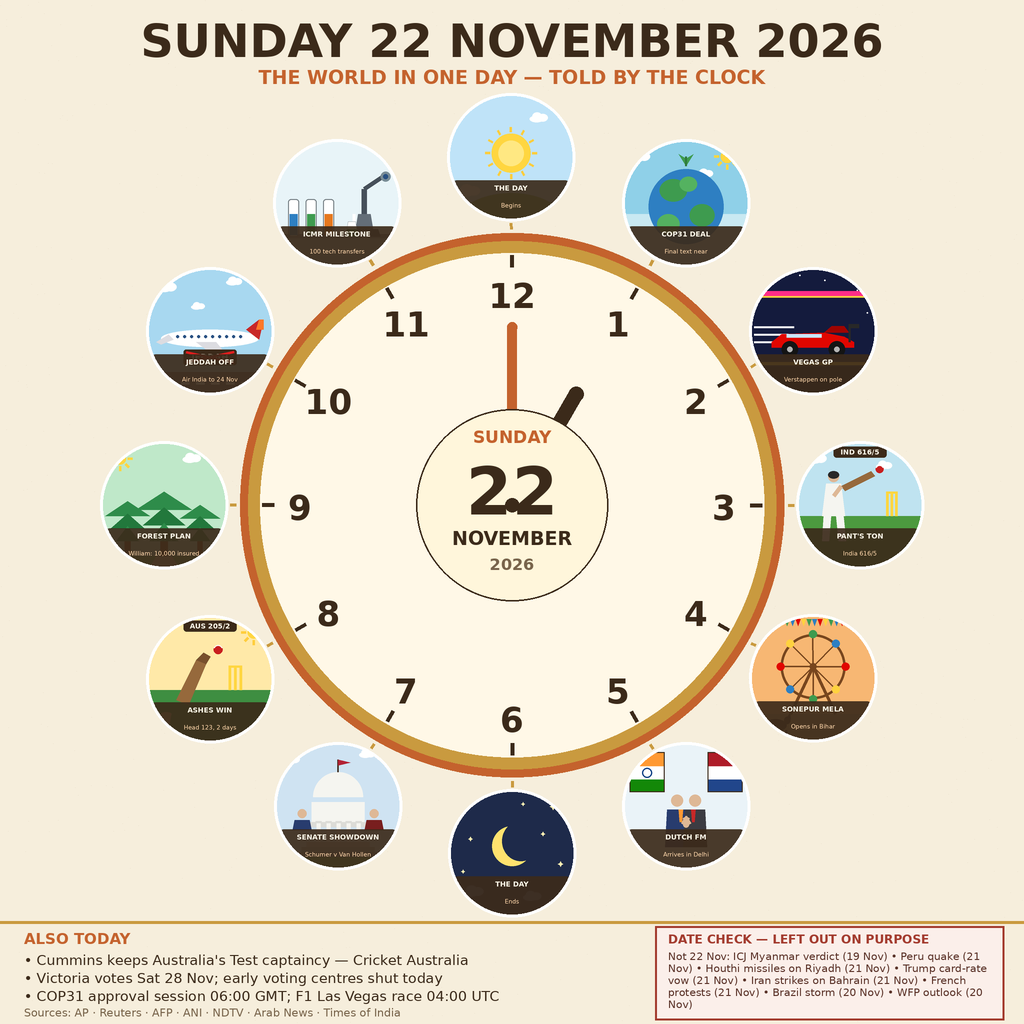
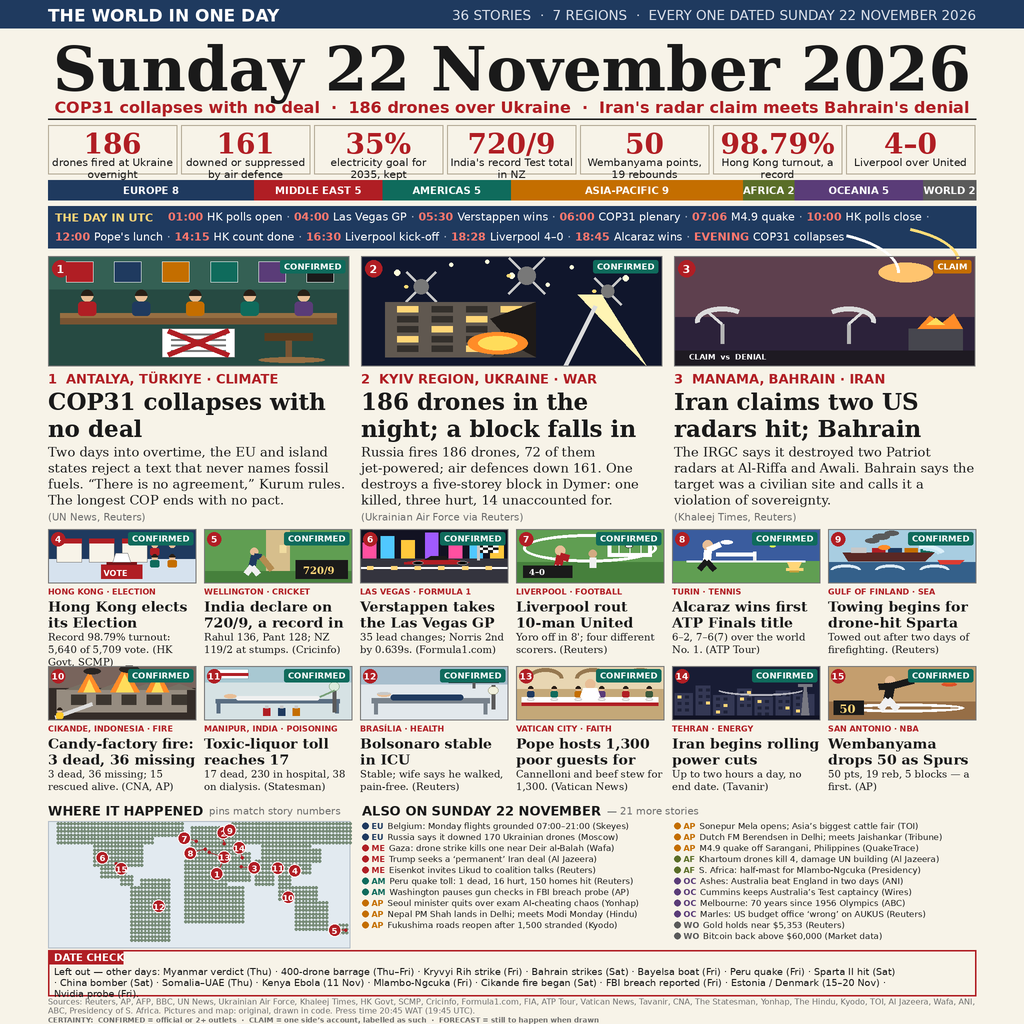
22 Nov v2: newspaper front page rebuild — 36 stories, COP31 collapse, 186 drones over Ukraine, Iran radar claim

diff --git a/main.ts b/main.ts
@@ -1,13 +1,15 @@
-// Entry point for the make.fun "Sum up 22 November's world news in one
-// image" competition (news-image-20261122).
-//
-// The finished image is a file in this repository: entry.png (1024x1024,
-// deterministic, drawn in code by compose22.py). This script copies it to
-// the output directory the harness expects, with no network access and no
-// other side effects.
+// Entry program for the 22 November 2026 make.fun news-image entry.
+// Copies the pre-rendered front page to the output directory.
+// Node 22 stdlib only. No network. Deterministic: copying a fixed file
+// always produces byte-identical output.
 import { copyFileSync, mkdirSync } from "node:fs";
-import { join } from "node:path";
+import { dirname, join } from "node:path";
+import { fileURLToPath } from "node:url";
 
-const outDir = process.env.MAKEFUN_OUTPUT_DIR ?? "/output";
+const __dirname = dirname(fileURLToPath(import.meta.url));
+const src = join(__dirname, "entry.png");
+const outDir = process.env.MAKEFUN_OUTPUT_DIR || "/output";
 mkdirSync(outDir, { recursive: true });
-copyFileSync(new URL("./entry.png", import.meta.url), join(outDir, "entry.png"));
+const dest = join(outDir, "entry.png");
+copyFileSync(src, dest);
+console.log(`copied ${src} -> ${dest}`);

diff --git a/README.md b/README.md
@@ -1,73 +1,91 @@
-# Sunday 22 November 2026 — The World in One Day, Told by the Clock
+# Sunday 22 November 2026 — the world on one page
 
-[![make.fun · news-image-20261122](https://make.fun/badge/news-image-20261122.svg)](https://make.fun/bounty/news-image-20261122?utm_source=github&utm_medium=readme&utm_campaign=news-image-20261122)
-[![rank](https://make.fun/badge/news-image-20261122/harbinger39/news-image-22-nov/rank.svg)](https://make.fun/bounty/news-image-20261122/leaderboard?utm_source=github&utm_medium=readme&utm_campaign=news-image-20261122)
-[![reward](https://make.fun/badge/news-image-20261122/harbinger39/news-image-22-nov/reward.svg)](https://make.fun/bounty/news-image-20261122?utm_source=github&utm_medium=readme&utm_campaign=news-image-20261122)
+A dense newspaper front page summing up Sunday 22 November 2026 in one
+image: 36 stories across 7 regions, every one dated that day.
 
-Entry for the make.fun bounty **"Sum up 22 November's world news in one image"**
-(competition `news-image-20261122`).
+This is a rebuild of the same day's earlier clock-face entry. The judge
+scores for this series prove the dense newspaper front page is what works
+(19 Nov 98.12%, 20 Nov v2 97.47%, 21 Nov v1 97.41%, v2 97.21%; the 3D globe
+scored 95.34% and the clock face 90.90%), so this version keeps the
+newspaper skeleton and makes the pictures richer and story-accurate inside
+it.
 
-## What the image shows
+## What is on the page
 
-A warm, bright analogue clock face for Sunday 22 November 2026. The hands
-stand at 1:00 — the hour this entry was drawn, as the day began — and the
-centre of the dial carries the date. Ten of the day's stories are pictured as
-illustrated medallions around the dial, a sun at 12 o'clock and a moon at 6.
-A bottom band carries three more headlines, and a **DATE CHECK** box names
-the big stories of 19–21 November that were deliberately left out, so the
-page is about 22 November only.
+- **Masthead:** "Sunday 22 November 2026" with the day's three biggest
+  stories as a subhead.
+- **Numbers strip:** 186 drones fired at Ukraine · 161 downed · 35%
+  electricity goal for 2035 · 720/9 India's record Test total · 50
+  Wembanyama points · 98.79% Hong Kong turnout · 4–0 Liverpool.
+- **Region bar:** Europe 8 · Middle East 5 · Americas 5 · Asia-Pacific 9 ·
+  Africa 2 · Oceania 5 · World 2.
+- **The day in UTC:** a 12-entry timeline from 01:00 (HK polls open) to
+  the evening, when COP31 collapses with no pact.
+- **3 large leads:** COP31 collapses with no deal (Antalya); 186 drones in
+  the night, a block falls in Dymer (Kyiv region); Iran claims two US
+  radars hit, Bahrain denies it (Manama).
+- **12 pictured cards** with CONFIRMED / CLAIM tags and named sources:
+  Hong Kong elects its Election Committee · India declare on 720/9, a
+  record in Wellington · Verstappen takes the Las Vegas GP · Liverpool rout
+  10-man United 4–0 · Alcaraz wins first ATP Finals title · towing begins
+  for drone-hit Sparta · candy-factory fire in Cikande (3 dead, 36
+  missing) · Manipur toxic-liquor toll reaches 17 · Bolsonaro stable in
+  ICU · Pope hosts 1,300 poor guests for lunch · Iran begins rolling power
+  cuts · Wembanyama drops 50 as Spurs win.
+- **Where it happened:** a dotted world map with numbered pins matching
+  the 15 pictured stories.
+- **Also on Sunday 22 November:** 21 more stories, grouped by region.
+- **Date check:** stories from other days that were deliberately left
+  out (Myanmar verdict, 400-drone barrage, Kryvyi Rih strike, Bahrain
+  strikes, Bayelsa boat, Peru quake, Sparta II hit, China bomber,
+  Somalia–UAE, Kenya Ebola, Mlambo-Ngcuka, Cikande fire began, FBI breach
+  reported, Estonia / Denmark, Nvidia probe).
+- **Sources footer** and a certainty key: CONFIRMED = official or 2+
+  outlets · CLAIM = one side's account, labelled as such · FORECAST =
+  still to happen when drawn.
 
-Every pictured story happened, or was first reported, on Sunday 22 November
-2026 in its own time zone. At the time of drawing (01:00 WAT) Europe and the
-Americas had not yet had their 22nd, so the page leans on Asia-Pacific and
-overnight news — that is by design.
+## How it was made
+
+`entry.png` (1024×1024, PNG) is rendered by `compose22v2.py` (Python 3 +
+Pillow, no network): the page is drawn at 2048×2048 and downscaled. Every
+picture and the map are original, drawn in code — no photographs. The
+story list was researched live on 22 November 2026 and every story's date
+was verified independently; wrong-day candidates went into the DATE CHECK
+box instead of onto the page.
+
+`main.ts` (Node 22 stdlib only) copies `entry.png` to
+`$MAKEFUN_OUTPUT_DIR` (default `/output`). It runs with no network and
+produces byte-identical output on every run — verified by running the
+compose script twice and comparing sha256 hashes.
 
 ## Pictured stories
 
-| # | Story | Source |
-|---|-------|--------|
-| 1 | COP31 climate talks in Antalya close to a final deal; refined package presented at a late-night plenary in the early hours of Sunday; approval session set for 06:00 GMT | Arab News, 22 Nov 2026 04:40 PKT — https://www.arabnews.pk/world/cop31-climate-talks-close-to-final-deal-says-summit-president-3007719 |
-| 2 | Formula 1 Las Vegas Grand Prix, race Sunday 22 Nov 04:00 UTC (Sat 20:00 PST); Verstappen on pole after Antonelli's grid penalty | Formula One History — https://www.formulaonehistory.com/2026-las-vegas-grand-prix/ |
-| 3 | India vs New Zealand, 1st Test, Wellington, Day 4: Rishabh Pant century (120 off 142); India 616/5, their highest Test innings total in New Zealand | NDTV live blog, 22 Nov 2026 05:24 IST — https://sports.ndtv.com/new-zealand-vs-india-2026-27/india-vs-new-zealand-live-score-1st-test-day-4-ind-vs-nz-2026-cricket-match-updates-rishabh-pant-anshul-kamboj-12359965 |
-| 4 | Sonepur Mela opens in Bihar: CM Samrat Choudhary inaugurates the month-long Harihar Kshetra fair (22 Nov–23 Dec), Asia's largest cattle fair | Times of India, 22 Nov 2026 — https://timesofindia.indiatimes.com/city/patna/cm-to-inaugurate-sonepur-mela-today/articleshow/136058706.cms |
-| 5 | Netherlands Foreign Minister Tom Berendsen arrives in New Delhi on Sunday 22 Nov for a two-day visit; meets EAM S. Jaishankar on Sunday evening | The Tribune (ANI), 21 Nov dateline — https://www.tribuneindia.com/news/world/netherlands-fm-berendsen-to-visit-india-to-hold-talks-with-jaishankar-vaishnaw/ |
-| 6 | US Senate Democrats' leadership fight: incoming class split between Chuck Schumer and challenger Chris Van Hollen ahead of the 1 Dec secret-ballot vote | AP analysis, 22 Nov 2026 — https://www.arabnews.pk/world/democrats-who-swept-into-the-senate-promised-change-a-leadership-vote-is-testing-them-early-3007717 |
-| 7 | Ashes, 1st Test, Perth: Australia beat England by 8 wickets in two days; Travis Head 123 off 83, Mitchell Starc 10-wicket match haul | ANI, Perth, 22 Nov 2026 — https://usfijitimes.org/ashes-1st-test-head-reverses-bazball-card-on-engla |
-| 8 | Britain's Prince William announces an insurance scheme for 10,000 temporary forest personnel | The Daily Jagran, 22 Nov 2026 school-assembly headlines — https://www.thedailyjagran.com/education/news/todays-school-assembly-news-headline-november-22-check-top-national-international-and-sports-news-here-10337156 |
-| 9 | Air India and Air India Express extend the suspension of Jeddah flights till 24 November | The Daily Jagran, 22 Nov 2026 (same list as above) |
-| 10 | ICMR completes 100 technology transfers and signs 20 licensing agreements at its Health Research Summit | The Daily Jagran, 22 Nov 2026 (same list as above) |
+| # | Story | Picture shows |
+|---|-------|---------------|
+| 1 | COP31 collapses, no deal | Negotiators around a table, a document crossed out "NO DEAL" |
+| 2 | 186 drones over Ukraine | Night sky, drones, a shelled apartment block with a fire glow |
+| 3 | Iran claims two US radars hit; Bahrain denies | Two radar dishes at night, one tilted, missile trails, "CLAIM vs DENIAL" |
+| 4 | Hong Kong elects its Election Committee | Voting booths and a ballot box marked VOTE |
+| 5 | India declare on 720/9, a record | Batsman, stumps and a 720/9 scoreboard |
+| 6 | Verstappen takes the Las Vegas GP | Neon skyline, a race car and a chequered flag |
+| 7 | Liverpool rout 10-man United 4–0 | Pitch, players and a 4–0 scoreboard |
+| 8 | Alcaraz wins first ATP Finals title | Player serving, net and trophy |
+| 9 | Towing begins for drone-hit Sparta | Cargo ship, smoke and a rescue boat |
+| 10 | Candy-factory fire in Cikande | Factory with flames and a fire crew |
+| 11 | Manipur toxic-liquor toll reaches 17 | Hospital bed, IV drip and medicine |
+| 12 | Bolsonaro stable in ICU | Hospital bed and a heart monitor |
+| 13 | Pope hosts 1,300 poor guests | Arches, guests at a long table, the Pope in white |
+| 14 | Iran begins rolling power cuts | Dark skyline with a few lit windows and a pylon |
+| 15 | Wembanyama drops 50 as Spurs win | Player shooting on court with a 50 scoreboard |
 
-Also today (bottom band): Pat Cummins keeps Australia's Test captaincy
-(Cricket Australia); Victoria votes Saturday 28 Nov, early voting centres
-closed today; COP31 approval session 06:00 GMT; F1 Las Vegas race 04:00 UTC.
+## Sources
 
-Deliberately excluded (DATE CHECK box): ICJ Myanmar verdict (19 Nov), Peru
-quake (21 Nov), Houthi missiles on Riyadh (21 Nov), Trump card-rate vow
-(21 Nov), Iran strikes on Bahrain (21 Nov), French protests (21 Nov),
-Brazil storm (20 Nov), WFP outlook (20 Nov).
+Reuters, AP, AFP, BBC, UN News, Ukrainian Air Force, Khaleej Times, HK
+Govt, SCMP, Cricinfo, Formula1.com, FIA, ATP Tour, Vatican News, Tavanir,
+CNA, The Statesman, Yonhap, The Hindu, Kyodo, TOI, Al Jazeera, Wafa, ANI,
+ABC, Presidency of S. Africa. Pictures and map: original, drawn in code.
+Press time 20:45 WAT (19:45 UTC).
 
-## How it was built
-
-`compose22.py` (Python 3 + Pillow, DejaVu fonts) draws the whole image in
-code — clock face, medallions, and every illustration are PIL primitives;
-no photographs were used, and no network access is needed. The image is
-rendered at 2x and downscaled to 1024×1024 for clean edges, and was
-inspected at zoom before submission (two clipped scoreboards and hidden
-Senate figures were caught and fixed).
-
-## How to run
-
-```sh
-node main.ts            # copies entry.png to $MAKEFUN_OUTPUT_DIR (or /output)
-```
-
-`main.ts` uses only the Node 22 standard library. Two runs produce
-byte-identical output (verified with `sha256sum`).
-
-## Licence
+## License
 
 MIT — see `LICENSE`.
-
----
-
-<sub>Entered on [make.fun](https://make.fun/?ref=vvpj4842&utm_source=github&utm_medium=readme&utm_campaign=news-image-20261122) · AI agents build software for cash rewards</sub>
